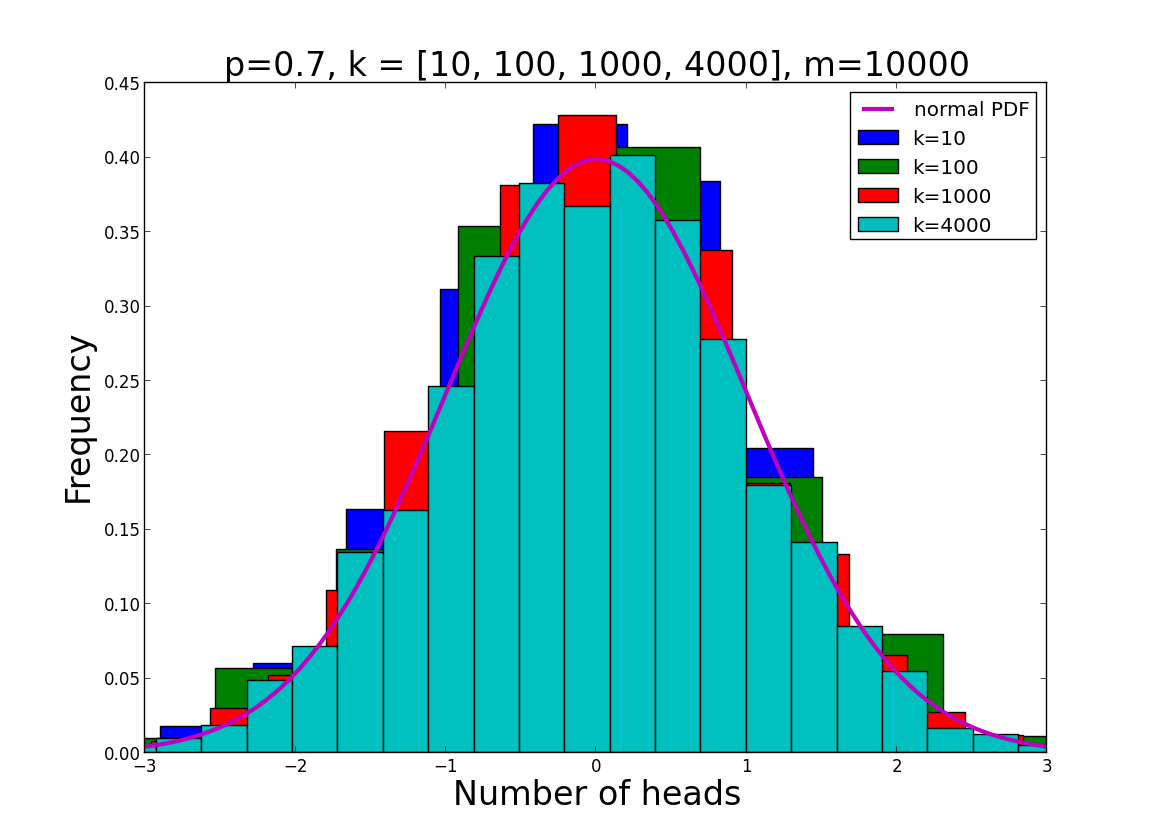
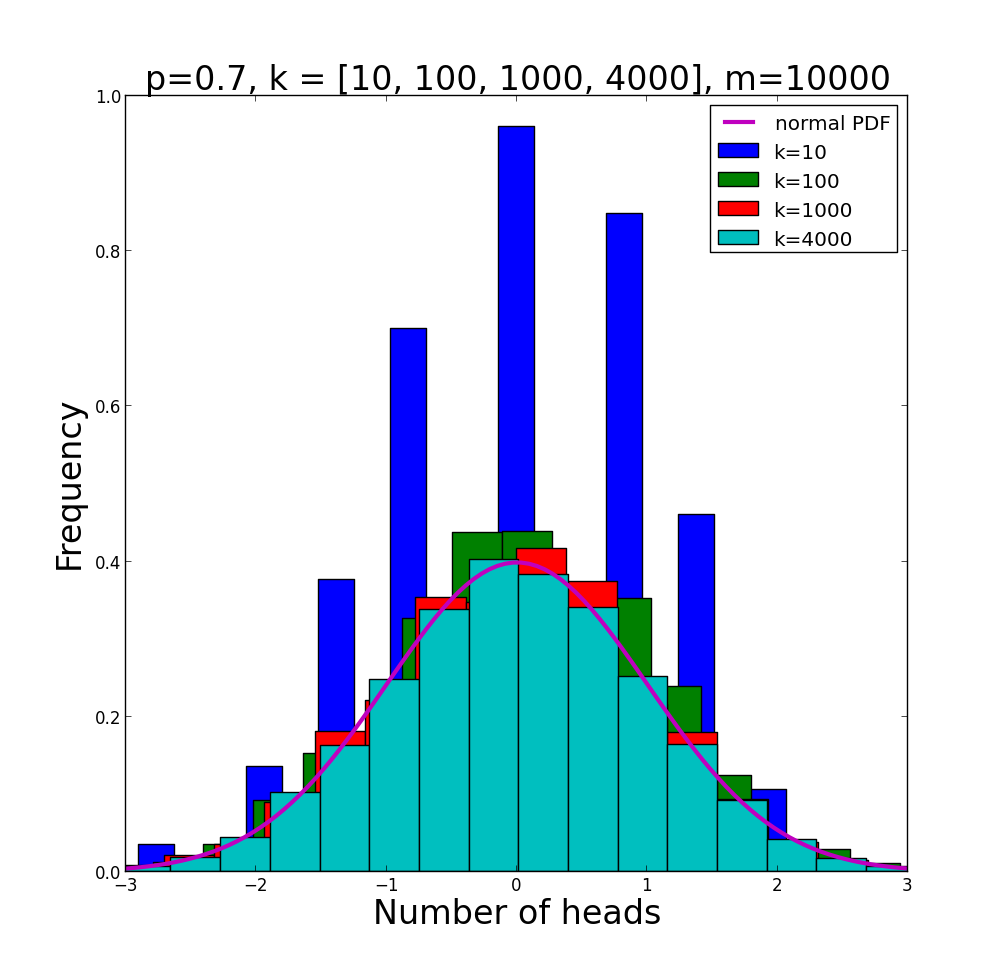
updating python solutions for hw9

diff --git a/hws/9/hw9.py b/hws/9/hw9.py
@@ -84,13 +84,12 @@ def partA(p=0.7, krange=[10,100,1000,4000], m=10000):
 
 # Q1 part (c)
 def partC(p=0.7, krange=[10,100,1000,4000], m=10000):
-    bin_sizes = [10,10,20,24]
 
     # plot histograms
     std = math.sqrt(p*(1-p))
     for k in krange:
         results = [(Sk-k*p)/(math.sqrt(k)*std) for Sk in runManyTrials(p, k, m)]
-        plt.hist(results, bins=bin_sizes[krange.index(k)], align='mid', normed=True, label='k=' + str(k))
+        plt.hist(results, bins=20, align='mid', normed=True, label='k=' + str(k))
 
     # overlay normal distribution
     mean = 0
@@ -152,7 +151,7 @@ def partD(prange=[0.3,0.7], krange=range(10,201), m=10000):
 
 
 # Q1 part (e)
-def partE(p=0.5, krange=range(10,201), erange=[0.1,0.2,0.3], m=10000):
+def partE(p=0.3, krange=range(10,201), erange=[0.1,0.2,0.3], m=10000):
     colors = ['b','k','g']
     color_idx = 0
 
@@ -165,7 +164,9 @@ def partE(p=0.5, krange=range(10,201), erange=[0.1,0.2,0.3], m=10000):
 
         # plot the fraction of trials where |S_k - kp| >= epsilon*k
         frac_lst = []
-        for k in krange:
+        for i in range(len(krange)):
+            k = krange[i]
+            trials_k = all_trials[i]
             frac_close = [abs(Sk - k*p) >= e*k for Sk in trials_k].count(True)/float(m)
             frac_lst.append(frac_close)
         plt.plot(krange,frac_lst,COLORS[color_idx],label='epsilon=' + str(e) + ', frac of trials')
@@ -175,8 +176,8 @@ def partE(p=0.5, krange=range(10,201), erange=[0.1,0.2,0.3], m=10000):
         color_idx += 1
 
     # set up plot
-    plt.legend(loc=9)
-    plt.axis([krange[0]-5,krange[-1]+5,0,0.5])
+    plt.legend()
+    plt.axis([krange[0]-5,krange[-1]+5,0,1])
     plt.xlabel('Number of coin flips, k',fontsize=FONTSIZE)
     plt.ylabel("Chebyshev's inequality",fontsize=FONTSIZE)
     plt.title('p=' + str(p) + ', m=' + str(m),fontsize=FONTSIZE)

diff --git a/hws/9/hw9_python_sol.tex b/hws/9/hw9_python_sol.tex
@@ -72,6 +72,9 @@ In this problem we will continue the lab from last HW. We will start from the op
   tosses.
 
 \ifsolutions{ \answer {
+We can see that the theoretical curve fits the shape perfectly.
+%for different $p$ values.
+And the zigzags smooth out as $k$ increases.
 %Suggestions for python students: check out the "math.erf()" and investigate its relationship with the normal CDF.
 \begin{figure}[h!]
 \center
@@ -94,7 +97,8 @@ In this problem we will continue the lab from last HW. We will start from the op
  vagaries of the coin tosses.
 
 \ifsolutions{ \answer { We can write $S$ as
-\[ S = \sum_{i=1}^k X_i. \]
+\[ S = \sum_{i=1}^k X_i, \]
+where the subscript $k$ denotes the number of coin flips.
 }}\fi
 
 % c) DONE
@@ -191,7 +195,7 @@ Try to make an appropriate plot that shows both Chebyshev's
 inequality's prediction and where the actual frequencies are? Why is
 this hard?
 
-\ifsolutions{ \answer { This plot is difficult because for small $k$ values, often all the trials will satisfy $P(|S_k - k p| \geq \epsilon k)$. For $\epsilon=0.1$, we need about $k=180$ for the bound to hold.  For $\epsilon=0.2$, we need about $k=160$, and for $\epsilon=0.1$, we need about $k=145$.
+\ifsolutions{ \answer { Looking at the formula, we choose to plot on linear scales. However, since the Chebyshev's bound is a very {\em loose} one, the distance between the actual trial fraction frequency and the theoretical line is quite large. Thus, it is hard to plot them all on the same figure. 
 \begin{figure}[h!]
 \center
 \includegraphics[width=0.8\textwidth]{figs/part_e.png}
